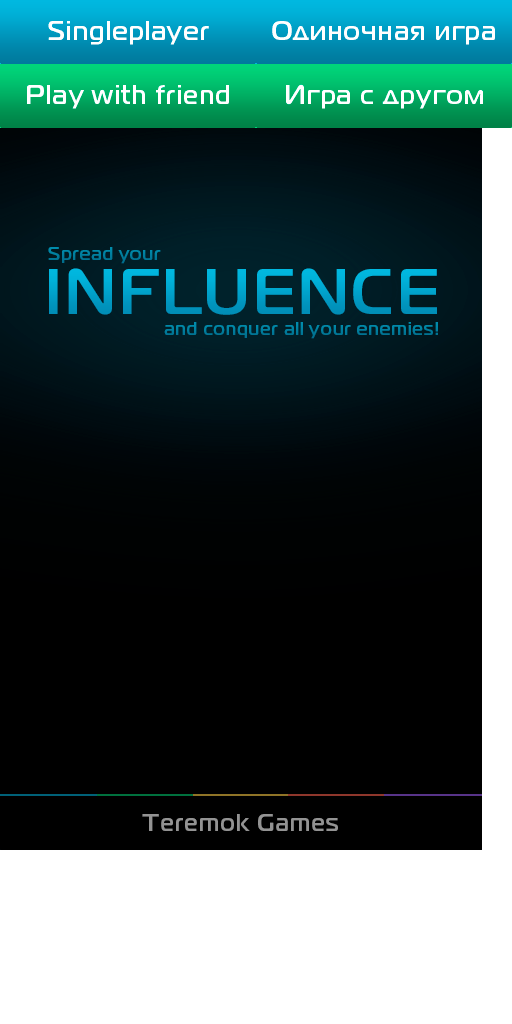
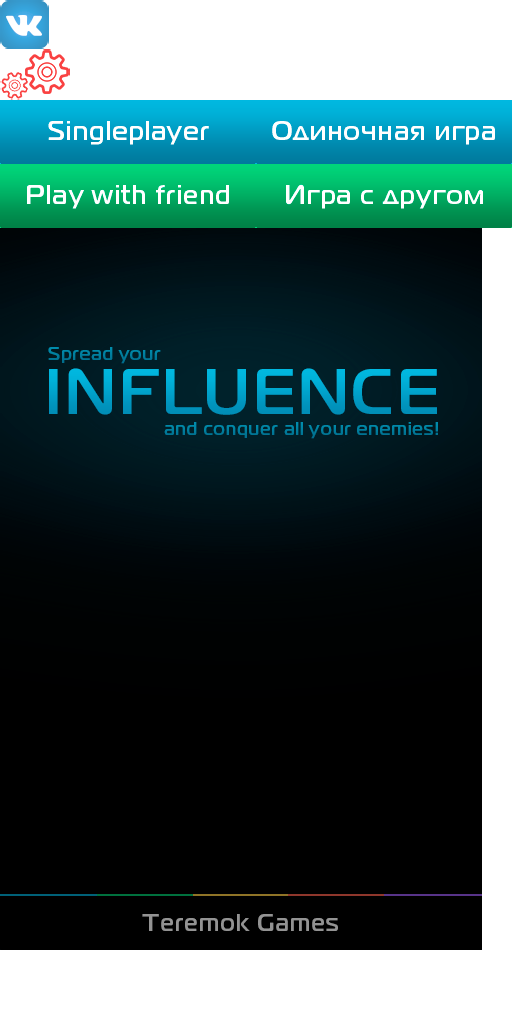
add settings button

diff --git a/influence/src/com/teremok/influence/screen/StartScreen.java b/influence/src/com/teremok/influence/screen/StartScreen.java
@@ -60,11 +60,11 @@ public class StartScreen extends AbstractScreen {
         background.setScaling(Scaling.fit);
         background.setAlign(Align.center);
         background.setTouchable(Touchable.disabled);
-
+        /*
         ButtonColored quick = new ButtonColored(QUICK, getFont(),
                 Drawer.getTextColor(), Drawer.getCellColorByNumber(0),
                 115f, 400f, 256f, 64f);
-
+        */
         ButtonTexture singleplayer = new ButtonTexture(SINGLEPLAYER,
                 atlas.findRegion(SINGLEPLAYER + "_" + Localizator.getLanguage()),
                         115f, 296f);
@@ -74,24 +74,20 @@ public class StartScreen extends AbstractScreen {
                 atlas.findRegion(MULTIPLAYER + "_" + Localizator.getLanguage()),
                 115f, 192f);
 
-        ButtonColored settings = new ButtonColored(SETTINGS, getFont(),
-                Drawer.getTextColor(), Drawer.getCellColorByNumber(5),
-                400f, 64f, 64f, 64f);
+        ButtonTexture settings = new ButtonTexture(SETTINGS,
+                atlas.findRegion(SETTINGS),
+                401f, 68f);
 
         overlap = new ColoredPanel(Color.BLACK, 0, 0, WIDTH, HEIGHT);
         overlap.setTouchable(Touchable.disabled);
         overlap.addAction(Actions.alpha(0f, Animation.DURATION_NORMAL));
 
         stage.addActor(background);
-        stage.addActor(quick);
+        //stage.addActor(quick);
         stage.addActor(singleplayer);
         stage.addActor(multiplayer);
         stage.addActor(settings);
         stage.addActor(overlap);
-    }
-
-    private float getCenterX(float width) {
-        return (WIDTH - width) / 2;
     }
 
     @Override
